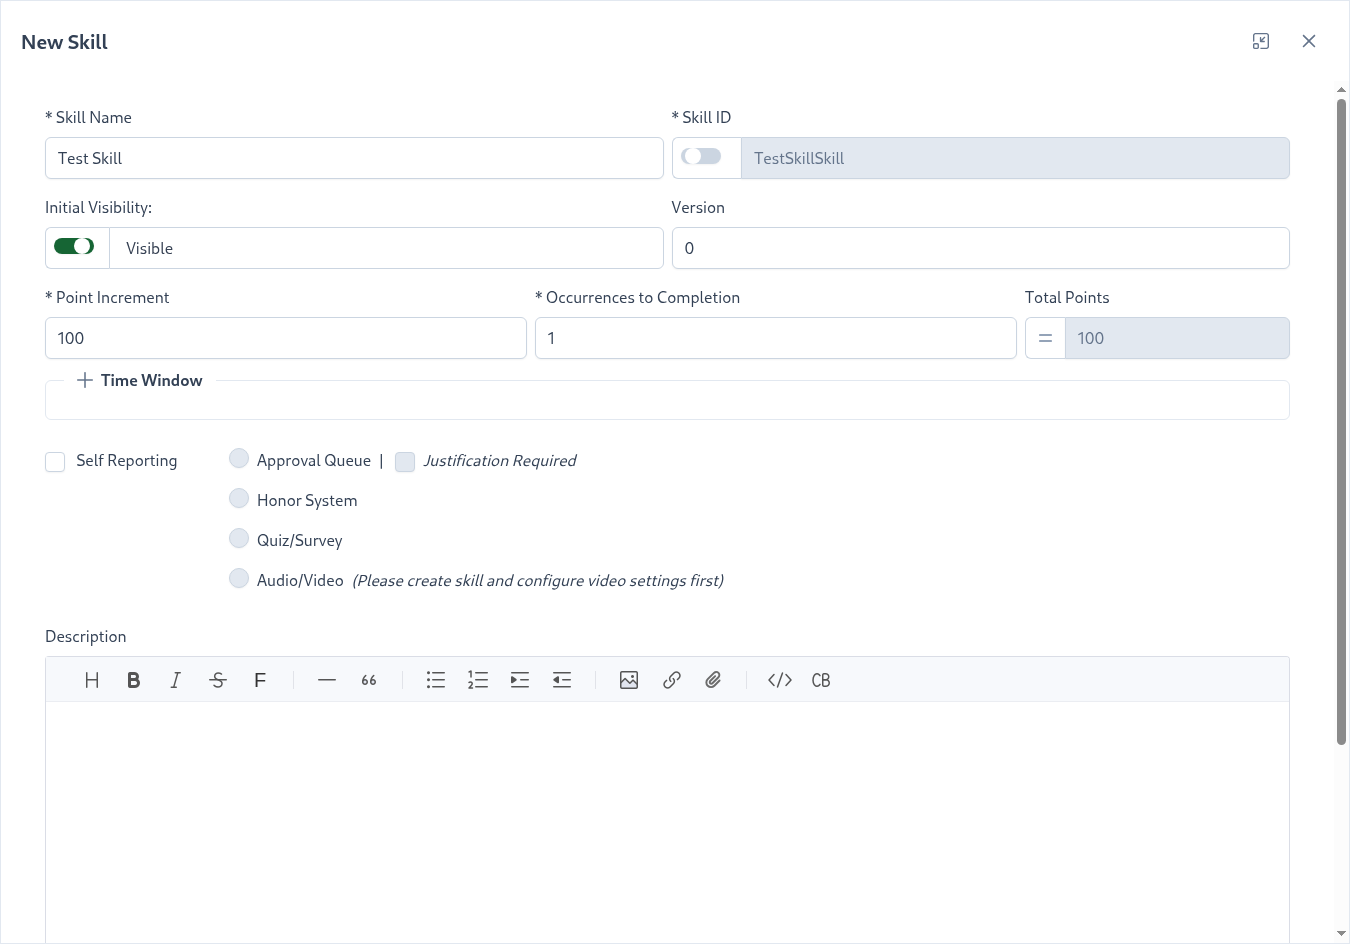
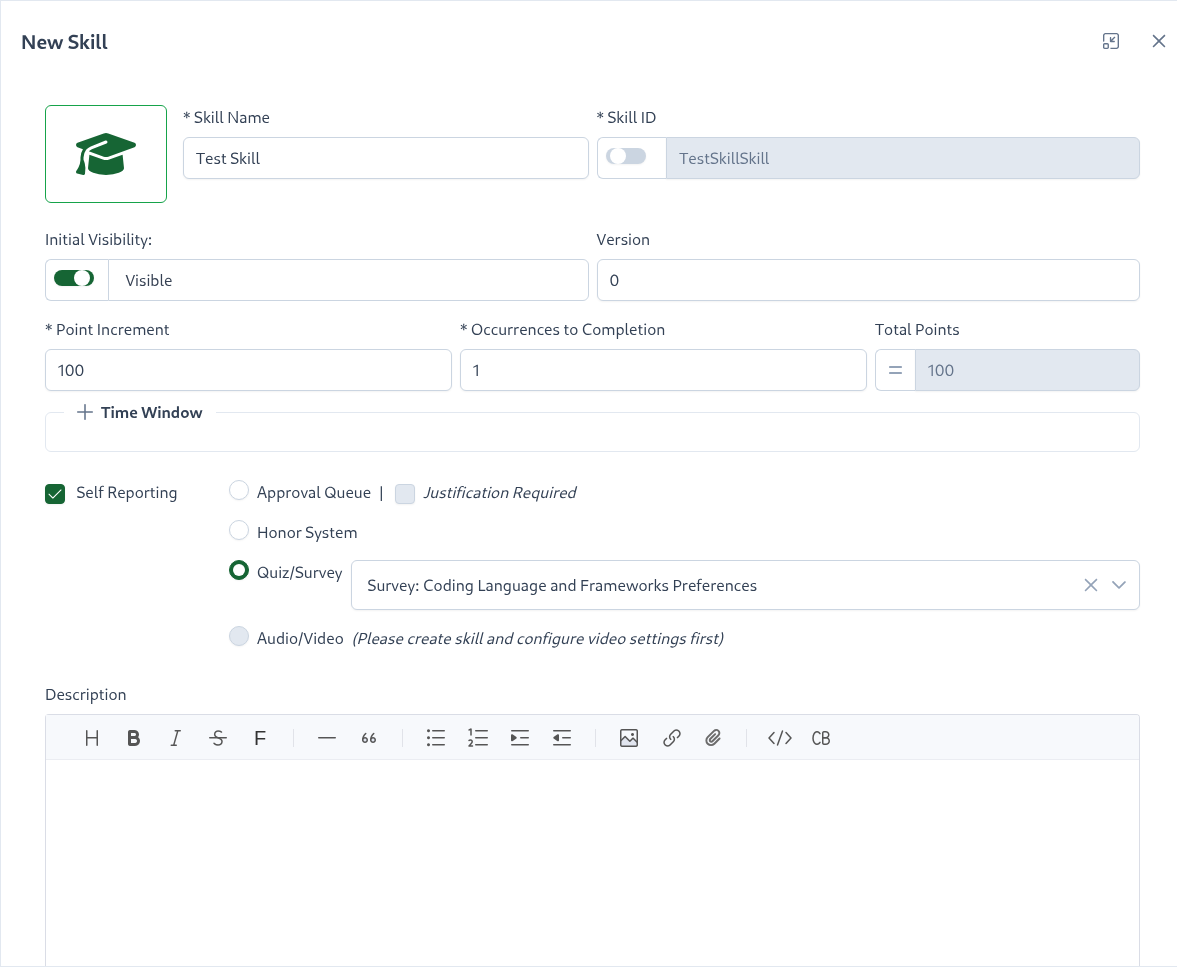
#322: documented rest of 3.8 features and updated snaps

diff --git a/cypress/e2e/admin.cy.js b/cypress/e2e/admin.cy.js
@@ -112,7 +112,7 @@ context('Admin: Generate Screenshots', () => {
     });
 
     it('New Skill modals', () => {
-        cy.viewport(1350, 1800);
+        cy.viewport(1200, 2000);
         // new skill modal
         cy.visit('/administrator/projects/movies/subjects/Action/');
         cy.get('[data-cy="newSkillButton"]').click();

diff --git a/docs/dashboard/user-guide/skills.md b/docs/dashboard/user-guide/skills.md
@@ -10,19 +10,20 @@ To create a skill, navigate to ``Project -> Subject`` then click on ``Skill +``,
 
 ![SkillTree Skills Page](../../screenshots/admin/modal-skills-new_skill.png)
 
-| Property                                                                               | Explanation                                                                                                                                                                                                                                                                                                                                                                                                                                                                                                                         | 
-|:---------------------------------------------------------------------------------------|:------------------------------------------------------------------------------------------------------------------------------------------------------------------------------------------------------------------------------------------------------------------------------------------------------------------------------------------------------------------------------------------------------------------------------------------------------------------------------------------------------------------------------------| 
-| Skill Name                                                                             | Display name of the skill                                                                                                                                                                                                                                                                                                                                                                                                                                                                                                           |
-| Skill ID                                                                               | Skill ID that will be used to report skill events                                                                                                                                                                                                                                                                                                                                                                                                                                                                                   |
-| [Initial Visibility](/dashboard/user-guide/skills.html#skill-creation-lifecycle)   | If the skill is initially visible or hidden. Hidden skills will not be visible to trainees effectively keeping the skill in a draft mode until it is ready to be exposed.                                                                                                                                                                                                                                                                                                                                                           |
-| Point Increment                                                                        | Number of points added for each skill event; used in conjunction with the 'Occurrences to Completion' property                                                                                                                                                                                                                                                                                                                                                                                                                      | 
-| Occurrences to Completion                                                              | Number of successful occurrences to fully accomplish this skill; used in conjunction with the 'Point Increment' property                                                                                                                                                                                                                                                                                                                                                                                                            |
-| [Time Window](/dashboard/user-guide/skills.html#time-window)                           | Used in conjunction with the 'Max Occurrences Within Window' property; once this Max Occurrences is reached, points will not be incremented until outside of the configured [Time Window](/dashboard/user-guide/skills.html#time-window). When 'Time Window' is disabled skill events are applied immediately."                                                                                                                                                                                                                     
-| Max Occurrences Within Window                                                          | Used in conjunction with the [Time Window](/dashboard/user-guide/skills.html#time-window) property; Once this Max Occurrences is reached, points will not be incremented until outside of the configured [Time Window](/dashboard/user-guide/skills.html#time-window).                                                                                                                                                                                                                                                              |
-| [Self Reporting](/dashboard/user-guide/self-reporting.html)                            | (Optional) When checked Self Reporting is enabled for this skill. The type of ``Approval Queue``, ``Honor System`` or ``Quiz/Survey`` can then be selected. When choosing Approval Queue, you may also choose to require users to submit a justification when self-reporting this skill by selecting the 'Justification Required' check box. When selecting ``Quiz/Survey`` you will also be prompted to pick an existing Quiz or a Survey. Please visit [Self Reporting](/dashboard/user-guide/self-reporting.html) to learn more. | 
-| Version                                                                                | *(Optional)* Utilize [Skills Versioning](/dashboard/user-guide/skills.html#skills-versioning) to support running multiple versions of client software                                                                                                                                                                                                                                                                                                                                                                               |
-| [Description](/dashboard/user-guide/rich-text-editor.html)                             | *(Optional)* Description of how to perform this skill.                                                                                                                                                                                                                                                                                                                                                                                                                                                                              |                                                                                                                                                                                                                                                                                                           
-| Help URL/Path                                                                          | *(Optional)* URL pointing to a help article providing further information about this skill or capability. Please note that this property works in conjunction with the [Root Help Url](/dashboard/user-guide/projects.html#setting-root-help-url) project setting. You can also author external links into the description itself if more than one external resource needs to be linked to.                                                                                                                                         |  
+| Property                                                                         | Explanation                                                                                                                                                                                                                                                                                                                                                                                                                                                                                                                         | 
+|:---------------------------------------------------------------------------------|:------------------------------------------------------------------------------------------------------------------------------------------------------------------------------------------------------------------------------------------------------------------------------------------------------------------------------------------------------------------------------------------------------------------------------------------------------------------------------------------------------------------------------------| 
+| Skill [Icon](/dashboard/user-guide/icons.html)                                   | Icon associated with the skill to be presented on the training pages                                                                                                                                                                                                                                                                                                                                                                                                                                                                |
+| Skill Name                                                                       | Display name of the skill                                                                                                                                                                                                                                                                                                                                                                                                                                                                                                           |
+| Skill ID                                                                         | Skill ID that will be used to report skill events                                                                                                                                                                                                                                                                                                                                                                                                                                                                                   |
+| [Initial Visibility](/dashboard/user-guide/skills.html#skill-creation-lifecycle) | If the skill is initially visible or hidden. Hidden skills will not be visible to trainees effectively keeping the skill in a draft mode until it is ready to be exposed.                                                                                                                                                                                                                                                                                                                                                           |
+| Point Increment                                                                  | Number of points added for each skill event; used in conjunction with the 'Occurrences to Completion' property                                                                                                                                                                                                                                                                                                                                                                                                                      | 
+| Occurrences to Completion                                                        | Number of successful occurrences to fully accomplish this skill; used in conjunction with the 'Point Increment' property                                                                                                                                                                                                                                                                                                                                                                                                            |
+| [Time Window](/dashboard/user-guide/skills.html#time-window)                     | Used in conjunction with the 'Max Occurrences Within Window' property; once this Max Occurrences is reached, points will not be incremented until outside of the configured [Time Window](/dashboard/user-guide/skills.html#time-window). When 'Time Window' is disabled skill events are applied immediately."                                                                                                                                                                                                                     
+| Max Occurrences Within Window                                                    | Used in conjunction with the [Time Window](/dashboard/user-guide/skills.html#time-window) property; Once this Max Occurrences is reached, points will not be incremented until outside of the configured [Time Window](/dashboard/user-guide/skills.html#time-window).                                                                                                                                                                                                                                                              |
+| [Self Reporting](/dashboard/user-guide/self-reporting.html)                      | (Optional) When checked Self Reporting is enabled for this skill. The type of ``Approval Queue``, ``Honor System`` or ``Quiz/Survey`` can then be selected. When choosing Approval Queue, you may also choose to require users to submit a justification when self-reporting this skill by selecting the 'Justification Required' check box. When selecting ``Quiz/Survey`` you will also be prompted to pick an existing Quiz or a Survey. Please visit [Self Reporting](/dashboard/user-guide/self-reporting.html) to learn more. | 
+| Version                                                                          | *(Optional)* Utilize [Skills Versioning](/dashboard/user-guide/skills.html#skills-versioning) to support running multiple versions of client software                                                                                                                                                                                                                                                                                                                                                                               |
+| [Description](/dashboard/user-guide/rich-text-editor.html)                       | *(Optional)* Description of how to perform this skill.                                                                                                                                                                                                                                                                                                                                                                                                                                                                              |                                                                                                                                                                                                                                                                                                           
+| Help URL/Path                                                                    | *(Optional)* URL pointing to a help article providing further information about this skill or capability. Please note that this property works in conjunction with the [Root Help Url](/dashboard/user-guide/projects.html#setting-root-help-url) project setting. You can also author external links into the description itself if more than one external resource needs to be linked to.                                                                                                                                         |  
 
 ::: tip
 To calculate the total points that completion of a particular skill will give a user:
@@ -144,11 +145,6 @@ Once the Audio/Video settings are specified, the skill can be configured to be a
 listened to the entire audio/video clip (>96%). This is done using
 the [Self Reporting](/dashboard/user-guide/self-reporting.html) mechanism, which can be easily selected by editing the
 skill and choosing the `Audio/Video` Self Reporting type.
-
-::: tip
-Note that self-reporting via audio/video playback completes the skill. When the `Audio/Video` type is selected,
-`Occurrences to Completion` is set to `1` and cannot be changed.
-:::
 
 Additionally, if a transcript is configured for the audio/video, users can also earn the skill by reading the transcript
 and self-certifying to receive credit.

diff --git a/docs/dashboard/user-guide/projects.md b/docs/dashboard/user-guide/projects.md
@@ -164,9 +164,21 @@ The ``Project User: Invite`` and ``Project User: Revoke`` user interface control
 :::
 
 #### Invite Users
-Users are invited to join a project that has been configured as ``Private Invite Only`` via email. Invite recipients are added via the ``Email Addresses`` input field and can be added one at a time or by using a comma or semicolon separated list
-or by entering one email address per line in the ``Email Addresses`` input field (email addresses in the form of ``<some@email.address> Firstname Lastname`` are also supported). Once email addresses have been entered into the ``Email Addresses`` input field,
-they must be added as recipients using the ``Add Recipients`` button. These steps may be performed several times before the ``Send Invites`` button is pressed at which point all accumulated email addresses will be sent an email with a unique, one-time use invite to join the project.
+
+Users can be invited to join a project configured as ``Private Invite Only`` via email. To invite users:
+
+1. Enter email addresses in the ``Email Addresses`` field using any of these formats:
+    - One at a time
+    - Comma or semicolon separated list
+    - One per line
+    - With display names (e.g., ``<some@email.address> Firstname Lastname``) is also supported
+2. Click ``Add Recipients`` to add them to the recipient list
+3. Repeat to add more recipients if needed
+4. Optionally, add CC recipients in the ``CC Email Addresses`` field
+5. Click ``Send Invites`` to deliver one-time use invitations to all recipients
+
+Each recipient will receive a unique, one-time use invitation to join the project.
+
 
 ![Project Access](./screenshots/Component-Private-Project-Invite.png)
 

diff --git a/docs/release-notes/skills-service.md b/docs/release-notes/skills-service.md
@@ -12,10 +12,10 @@ To obtain deployable artifacts please visit [Distributions](/dashboard/install-g
 <release-date date="Aug 2025" />
 - Implemented ability to upload and manage [PDF slide decks](/dashboard/user-guide/skills.html#slide-deck) per skill, which are presented [during training](/training-participation/take-training.html#slides) for that specific skill.
 - Implemented the ability to create [Global Badges](/dashboard/user-guide/global-badges.html) that can include skills and levels from any project for which you have Admin access
-- Added support for customizing icons for individual skills, similar to subjects and badges.
-- Added ability to require videos to be played multiple times for completion
+- Added support for customizing [icons](/dashboard/user-guide/icons.html) for individual skills, similar to subjects and badges.
+- Added ability to [require videos](/dashboard/user-guide/skills.html#achieving-skills-through-audio-video-playback) to be played multiple times for completion
 - Implemented Matomo Analytics support to the SkillTree dashboard
-- Added CC field for project invites
+- Added [CC field](/dashboard/user-guide/projects.html#invite-users) for project invites
 - Added Last Updated column to Skills Table
 - Updated locked history chart appearance and wording
 - Improved Dashboard loading performance by optimizing JS resource chunking and loading 

diff --git a/docs/dashboard/user-guide/icons.md b/docs/dashboard/user-guide/icons.md
@@ -3,7 +3,9 @@
 The skills platform offers customization of icons for the following items:
 
 - [Subjects](/dashboard/user-guide/subjects.html)
+- [Skills](/dashboard/user-guide/skills.html)
 - [Badges](/dashboard/user-guide/badges.html)
+- [Global Badges](/dashboard/user-guide/global-badges.html)
 
 When creating or editing these items you can click on the default icon to bring up the icon selector: 
 
